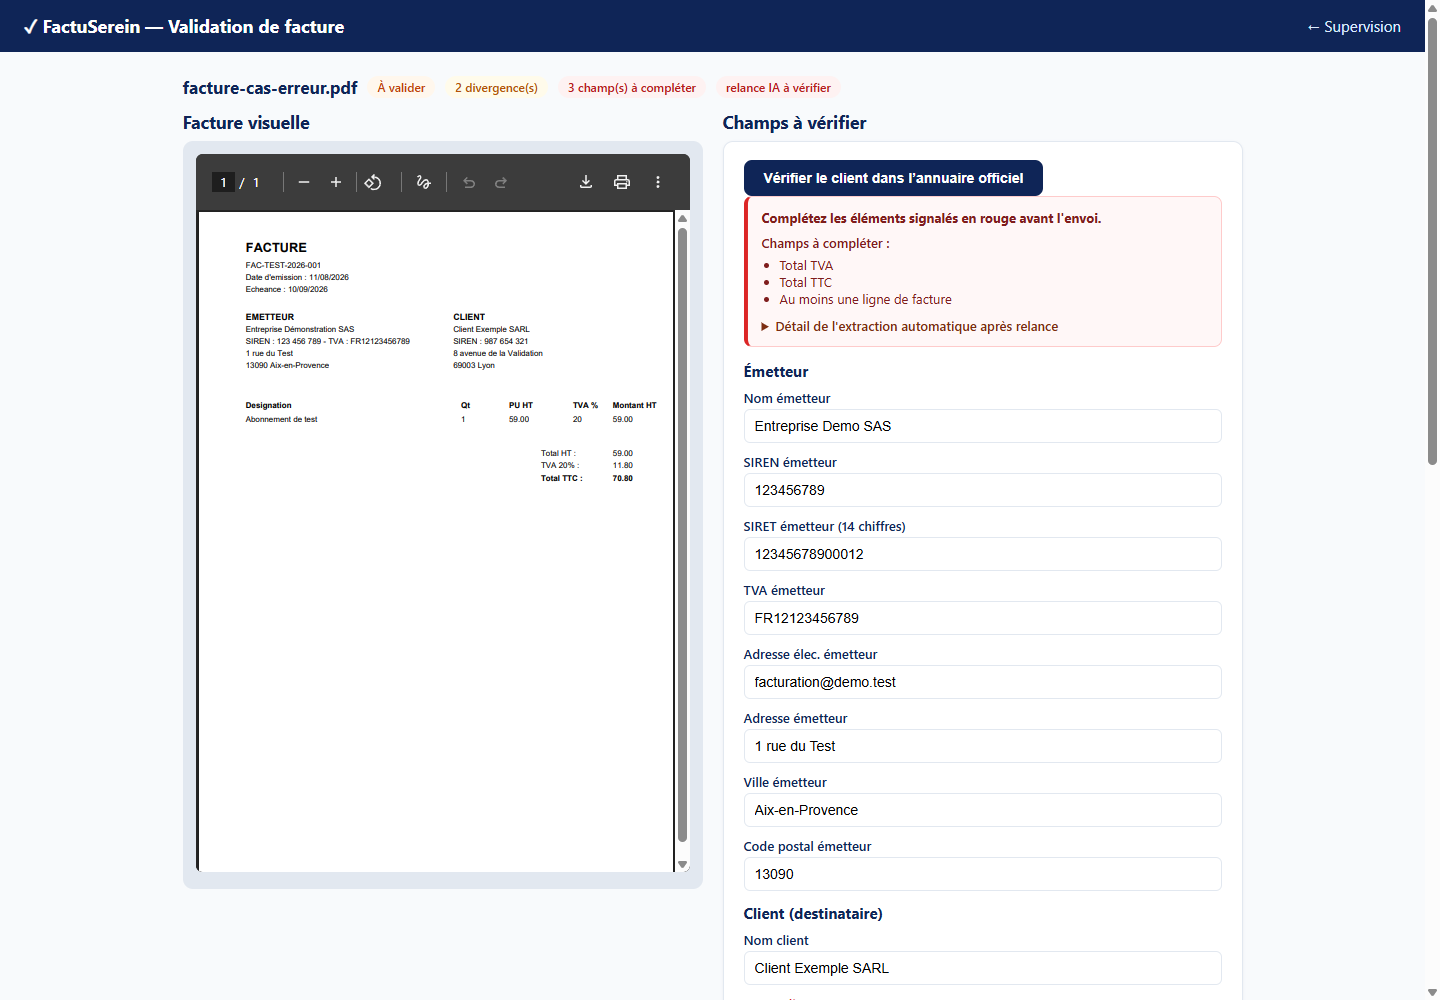
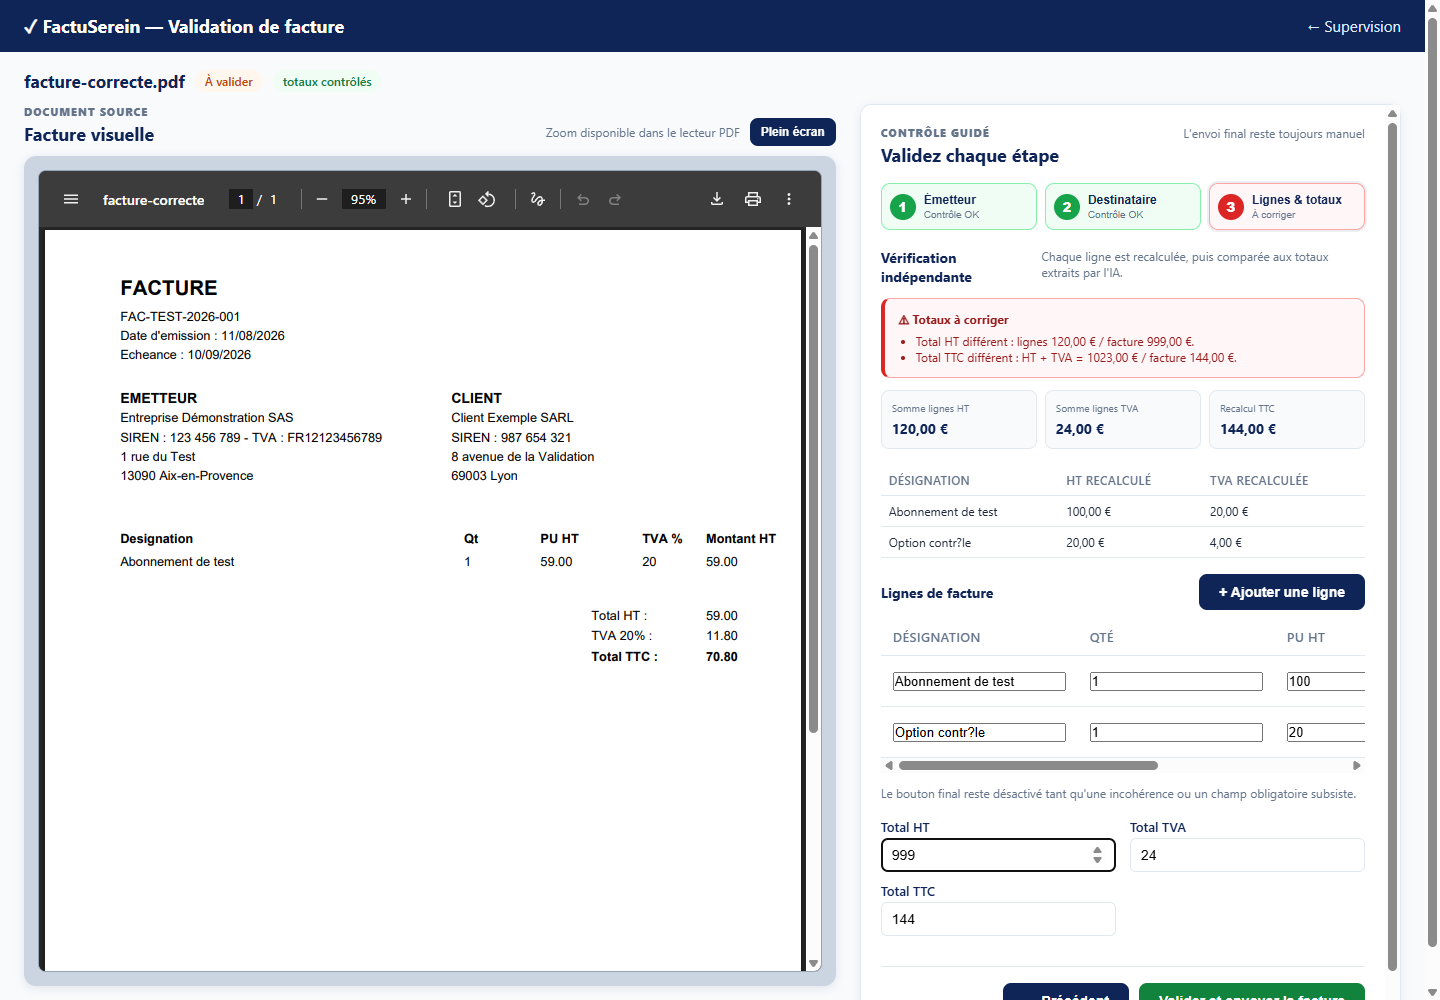
feat: refresh validation viewer screenshots

diff --git a/outils/telecharger.html b/outils/telecharger.html
@@ -49,12 +49,12 @@
       <h2>Télécharger l'application Windows</h2>
       <p>Installez l'application, créez votre compte en quelques étapes guidées, puis déposez vos factures PDF. Le logiciel transfère vos fichiers au service, qui les prépare, les contrôle et suit leur traitement.</p>
       <p class="marge">
-        <a class="btn btn-vert download-button" href="https://d2po7vfowy39cq.cloudfront.net/download/FactuSerein_0.2.3_x64-setup.exe">
+        <a class="btn btn-vert download-button" href="https://d2po7vfowy39cq.cloudfront.net/download/FactuSerein_0.2.4_x64-setup.exe">
           ⬇ Télécharger pour Windows
         </a>
       </p>
       <p class="marge"><a href="#app-carousel">Voir les écrans réels de l'application →</a></p>
-       <p class="marge download-hash">Installeur Windows 64 bits · Windows 10 et 11 · SHA-256 : <code id="download-sha">e29dee3c66b911e1dea5c80b4c32f67527f09b24ed5244fb082856748aedd737</code></p>
+       <p class="marge download-hash">Installeur Windows 64 bits · Windows 10 et 11 · SHA-256 : <code id="download-sha">manifeste signé (chargement…)</code></p>
       </div>
     </div>
 
@@ -82,15 +82,19 @@
             <figcaption><strong>Réglages.</strong> La connexion, l'entreprise et l'accès aux documents du service sont regroupés au même endroit.</figcaption>
           </figure>
           <figure class="app-slide" data-slide aria-hidden="true">
-            <img src="../assets/img/app-screenshot-validation-review.png" alt="Vue de validation avec le PDF de facture à gauche et les champs de l'émetteur et du client à droite" width="1440" height="1000" loading="lazy">
-            <figcaption><strong>Vérification d'une facture.</strong> Le PDF reste visible à gauche pendant que les informations de l'émetteur et du destinataire sont contrôlées à droite.</figcaption>
+            <img src="../assets/img/app-screenshot-validation-review.png" alt="Vue de validation avec un PDF agrandi à gauche et les lignes et totaux contrôlés à droite" width="1440" height="1000" loading="lazy">
+            <figcaption><strong>Lignes et totaux.</strong> Le PDF reste lisible à gauche, avec zoom natif, pendant que chaque ligne est recalculée à droite.</figcaption>
           </figure>
           <figure class="app-slide" data-slide aria-hidden="true">
-            <img src="../assets/img/app-screenshot-validation-details.png" alt="Détail des informations de facture avec numéro, dates, totaux et ligne de facture" width="528" height="583" loading="lazy">
-            <figcaption><strong>Informations de facture.</strong> Numéro, dates, totaux et lignes restent éditables avant la transmission.</figcaption>
+            <img src="../assets/img/app-screenshot-validation-emitter.png" alt="Étape Émetteur avec le profil de l'entreprise reconnu en vert" width="1440" height="1000" loading="lazy">
+            <figcaption><strong>Émetteur reconnu.</strong> Le profil enregistré est comparé au SIREN de la facture avant toute transmission.</figcaption>
           </figure>
           <figure class="app-slide" data-slide aria-hidden="true">
-            <img src="../assets/img/app-screenshot-validation-error.png" alt="Vue de validation affichant les champs manquants en rouge et le détail de la relance IA" width="1440" height="1000" loading="lazy">
+            <img src="../assets/img/app-screenshot-validation-details.png" alt="Détail de l'étape lignes et totaux avec le recalcul indépendant" width="548" height="583" loading="lazy">
+            <figcaption><strong>Contrôle indépendant.</strong> Les lignes, la TVA et le TTC sont recalculés puis affichés avec les champs éditables.</figcaption>
+          </figure>
+          <figure class="app-slide" data-slide aria-hidden="true">
+            <img src="../assets/img/app-screenshot-validation-error.png" alt="Vue de validation affichant les totaux incohérents en rouge avant l'envoi" width="1440" height="1000" loading="lazy">
             <figcaption><strong>Cas à corriger.</strong> Les champs manquants, divergences et détails de relance sont expliqués avant tout envoi.</figcaption>
           </figure>
           <figure class="app-slide" data-slide aria-hidden="true">
@@ -104,10 +108,11 @@
             <button class="carousel-dot is-active" type="button" data-carousel-dot="0" role="tab" aria-selected="true" aria-label="Afficher la capture Accueil"></button>
             <button class="carousel-dot" type="button" data-carousel-dot="1" role="tab" aria-selected="false" aria-label="Afficher la capture Clients"></button>
             <button class="carousel-dot" type="button" data-carousel-dot="2" role="tab" aria-selected="false" aria-label="Afficher la capture Réglages"></button>
-            <button class="carousel-dot" type="button" data-carousel-dot="3" role="tab" aria-selected="false" aria-label="Afficher la capture Vérification facture"></button>
-            <button class="carousel-dot" type="button" data-carousel-dot="4" role="tab" aria-selected="false" aria-label="Afficher la capture Informations facture"></button>
-            <button class="carousel-dot" type="button" data-carousel-dot="5" role="tab" aria-selected="false" aria-label="Afficher la capture Erreur et champs manquants"></button>
-            <button class="carousel-dot" type="button" data-carousel-dot="6" role="tab" aria-selected="false" aria-label="Afficher la capture Facture scannée"></button>
+            <button class="carousel-dot" type="button" data-carousel-dot="3" role="tab" aria-selected="false" aria-label="Afficher la capture Lignes et totaux"></button>
+            <button class="carousel-dot" type="button" data-carousel-dot="4" role="tab" aria-selected="false" aria-label="Afficher la capture Émetteur reconnu"></button>
+            <button class="carousel-dot" type="button" data-carousel-dot="5" role="tab" aria-selected="false" aria-label="Afficher la capture Contrôle indépendant"></button>
+            <button class="carousel-dot" type="button" data-carousel-dot="6" role="tab" aria-selected="false" aria-label="Afficher la capture Erreur et champs manquants"></button>
+            <button class="carousel-dot" type="button" data-carousel-dot="7" role="tab" aria-selected="false" aria-label="Afficher la capture Facture scannée"></button>
           </div>
           <button class="carousel-arrow" type="button" data-carousel-next aria-label="Capture suivante">→</button>
         </div>
@@ -142,7 +147,7 @@
       </ul>
     </div>
 
-    <p class="marge" style="text-align:center"><a href="https://d2po7vfowy39cq.cloudfront.net/download/FactuSerein_0.2.3_x64-setup.exe" class="btn btn-vert">Télécharger l'application</a></p>
+    <p class="marge" style="text-align:center"><a href="https://d2po7vfowy39cq.cloudfront.net/download/FactuSerein_0.2.4_x64-setup.exe" class="btn btn-vert">Télécharger l'application</a></p>
   </div>
  </section>
 
@@ -195,9 +200,9 @@
   "name": "FactuSerein pour Windows",
   "applicationCategory": "BusinessApplication",
   "operatingSystem": "Windows 10, Windows 11",
-  "softwareVersion": "0.2.3",
+  "softwareVersion": "0.2.4",
   "url": "https://factuserein.fr/outils/telecharger.html",
-  "downloadUrl": "https://d2po7vfowy39cq.cloudfront.net/download/FactuSerein_0.2.3_x64-setup.exe",
+  "downloadUrl": "https://d2po7vfowy39cq.cloudfront.net/download/FactuSerein_0.2.4_x64-setup.exe",
   "offers": [
     {"@type": "Offer", "price": "24", "priceCurrency": "EUR", "description": "Offre Essentiel, prix mensuel HT"},
     {"@type": "Offer", "price": "59", "priceCurrency": "EUR", "description": "Offre Pro, prix mensuel HT"}

diff --git a/docs/CAPTURES-CAROUSEL.md b/docs/CAPTURES-CAROUSEL.md
@@ -16,6 +16,8 @@ Le JavaScript du site détecte automatiquement le nombre de slides et gère les 
 - Dirigeant de TPE : statut du dossier, prochaine action et résultat compréhensible.
 - Gestionnaire administratif : PDF à gauche, champs extraits et contrôles à droite.
 - Comptable : totaux HT/TVA/TTC, lignes et divergences clairement visibles.
+- Lecture facture : le lecteur PDF intégré conserve le zoom natif ; le bouton
+  `Plein écran` permet d'agrandir le document sans quitter la validation.
 - Utilisateur face à une anomalie : champs à compléter en rouge, explication et relance IA.
 - Utilisateur avec un scan : badge de vérification renforcée et indication de contrôle.
 - Responsable client : historique d'une facture, entreprise reconnue et coordonnées mises à jour.

diff --git a/README.md b/README.md
@@ -26,7 +26,7 @@ Le script publie le site, le dashboard et l'installeur desktop. Pour une publica
 
 ```powershell
 & ..\factuserein-backend\scripts\deploy-fronts.ps1 `
-  -InstallerPath ..\factuserein-client\src-tauri\target\release\bundle\nsis\FactuSerein_0.2.3_x64-setup.exe
+  -InstallerPath ..\factuserein-client\src-tauri\target\release\bundle\nsis\FactuSerein_0.2.4_x64-setup.exe
 ```
 
 En attendant la distribution `app` du lot 2, l'installeur et
